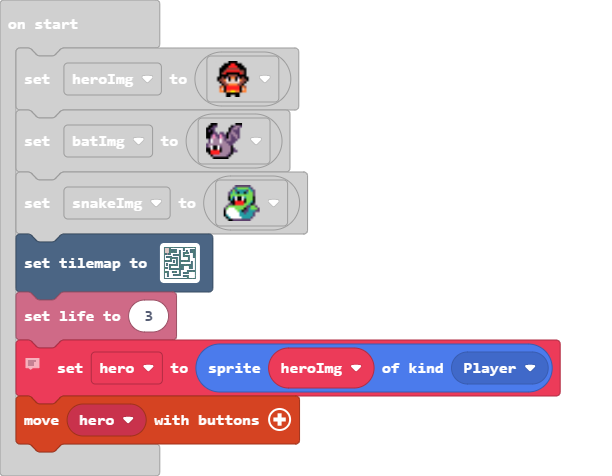
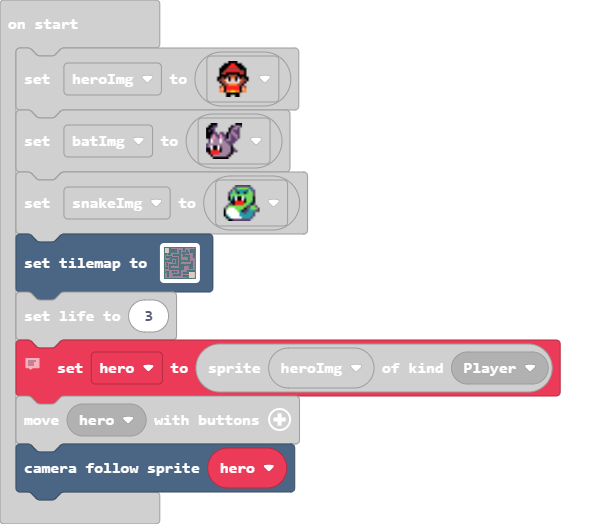
Update pxt.json, main.blocks, main.ts

Changed region(s): [[0.0, 0.0882, 0.9314, 0.9706], [0.0, 0.0294, 0.1242, 0.0588], [0.2794, 0.1471, 0.3105, 0.1765]]

diff --git a/main.ts b/main.ts
@@ -18,44 +18,45 @@ let enemy: Sprite = null
 let heroImg = sprites.castle.heroWalkFront1
 let batImg = sprites.builtin.forestBat4
 let snakeImg = sprites.builtin.forestSnake2
[1 lines of base64/hex data omitted]
-    ................................
-    ................................
-    ................................
-    ................................
-    ................................
-    ................................
-    ................................
-    ................................
-    ................................
-    ................................
-    ................................
-    ................................
-    ................................
-    ................................
-    ................................
-    ................................
-    ................................
-    ................................
-    ................................
-    ................................
-    ................................
-    ................................
-    ................................
-    ................................
-    ................................
-    ................................
-    ................................
-    ................................
-    ................................
-    ................................
-    ................................
-    ................................
-    `, [myTiles.transparency16,sprites.dungeon.greenOuterSouth0,sprites.dungeon.greenOuterSouthEast,sprites.dungeon.greenOuterWest1,sprites.dungeon.greenOuterNorthWest,sprites.dungeon.greenOuterNorth0,sprites.dungeon.greenOuterNorthEast,sprites.dungeon.greenOuterSouthWest,sprites.dungeon.greenOuterEast0,sprites.dungeon.floorLight2,sprites.dungeon.greenInnerSouthWest,sprites.dungeon.greenInnerSouthEast,sprites.dungeon.greenInnerNorthEast,sprites.dungeon.greenInnerNorthWest,sprites.dungeon.stairSouth,sprites.dungeon.greenOuterNorth2,sprites.dungeon.greenOuterSouth2,sprites.dungeon.greenOuterEast2,sprites.dungeon.greenOuterWest2], TileScale.Sixteen))
[1 lines of base64/hex data omitted]
+    22222222222222222222222222222222
+    2....22............22..........2
+    2....22222222......22.....222222
+    2....22222222..22..22.22..222222
+    2....22222222..22.....22..222222
+    2.2..22222222..22.2222222.222222
+    222.222........22.2222222....222
+    222.222..22222222..22........222
+    2........22222222..2222222...222
+    2.222222.......22..2222222...222
+    2.222222222222.22.......22...222
+    2.....22222222.22.......22.....2
+    2.....22....22.22.......22.....2
+    22222222.22.22.22222222222.....2
+    22222222.22.22.22222222222.22..2
+    2........22.22.22..........22..2
+    2.22........22.22..........22..2
+    2.22.222222222.22222222222222..2
+    2.22.222222222.22222222222222..2
+    2....22........22222.....2222..2
+    2222.22........22222.....2222..2
+    2222.222222222222222.....2222..2
+    2....222222222222222...........2
+    2..............22......222222222
+    22222...22222..22......222222222
+    22222...22222..22..222222......2
+    2..22..........22..222222......2
+    2..22....22222222..............2
+    2..22....22222222...22222......2
+    2..22..............222222......2
+    2......................22......2
+    22222222222222222222222222222222
+    `, [myTiles.transparency16,sprites.dungeon.greenOuterSouth0,sprites.dungeon.greenOuterSouthEast,sprites.dungeon.greenOuterWest1,sprites.dungeon.greenOuterNorthWest,sprites.dungeon.greenOuterNorth0,sprites.dungeon.greenOuterNorthEast,sprites.dungeon.greenOuterSouthWest,sprites.dungeon.greenOuterEast0,sprites.dungeon.floorLight2,sprites.dungeon.greenInnerSouthWest,sprites.dungeon.greenInnerSouthEast,sprites.dungeon.greenInnerNorthEast,sprites.dungeon.greenInnerNorthWest,sprites.dungeon.stairSouth,sprites.dungeon.greenOuterNorth2,sprites.dungeon.greenOuterSouth2,sprites.dungeon.greenOuterEast2,sprites.dungeon.greenOuterWest2,sprites.dungeon.stairWest,sprites.dungeon.floorDark2], TileScale.Sixteen))
 info.setLife(3)
 // Create hero sprite
 let hero = sprites.create(heroImg, SpriteKind.Player)
 controller.moveSprite(hero)
+scene.cameraFollowSprite(hero)
 // Spawn Bats
 game.onUpdateInterval(900, function () {
     enemy = sprites.create(batImg, SpriteKind.Enemy)
